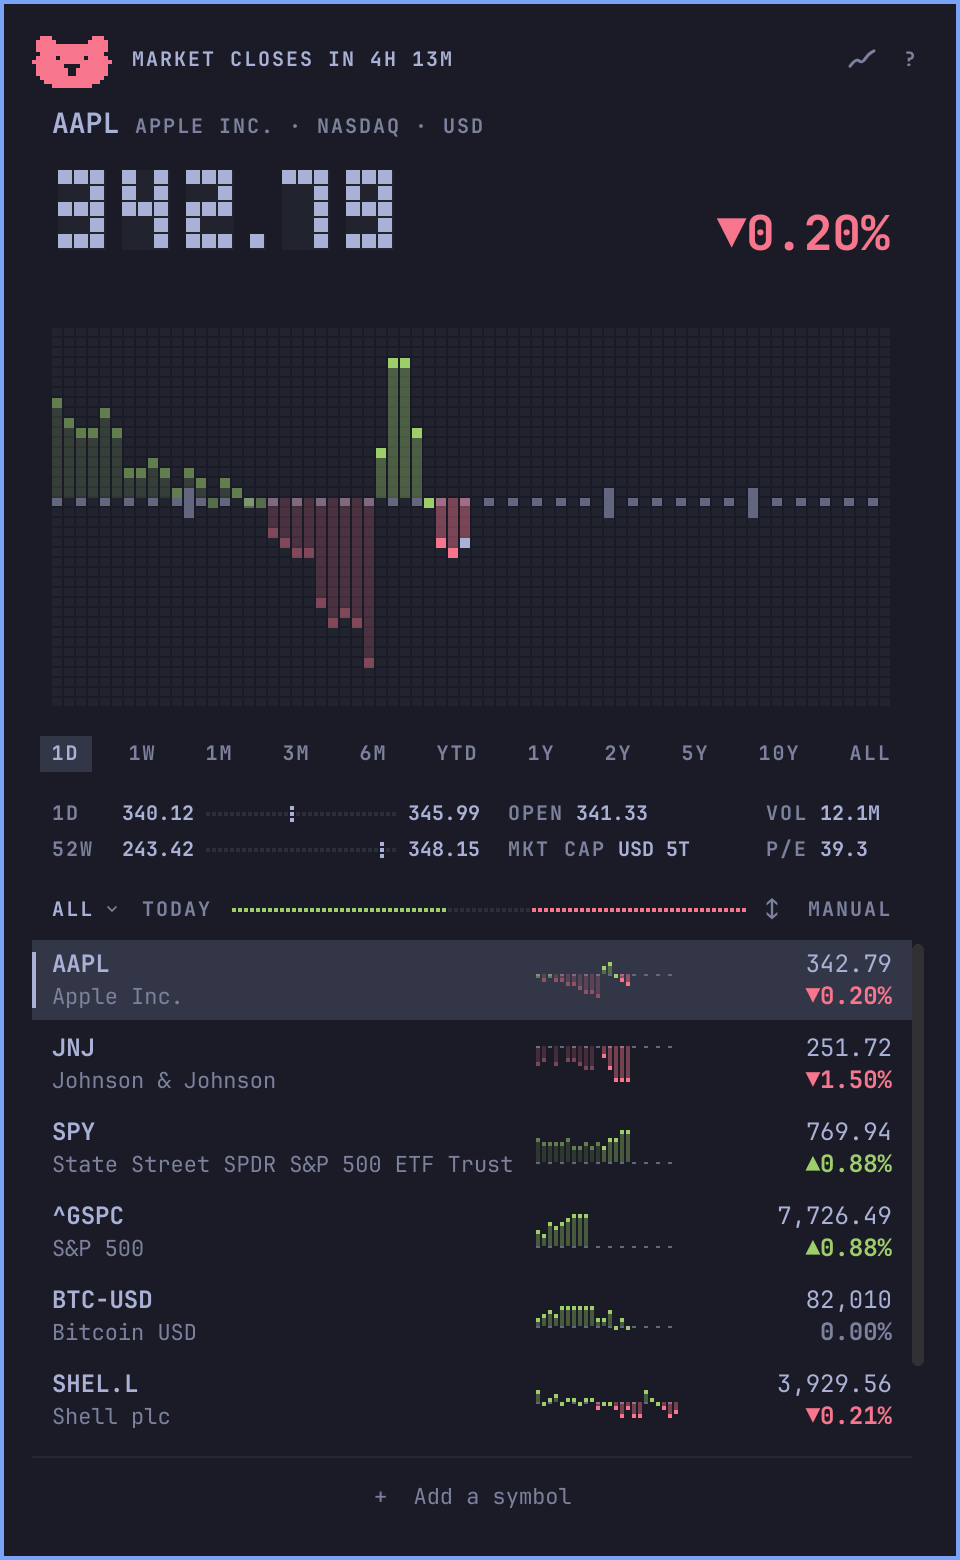
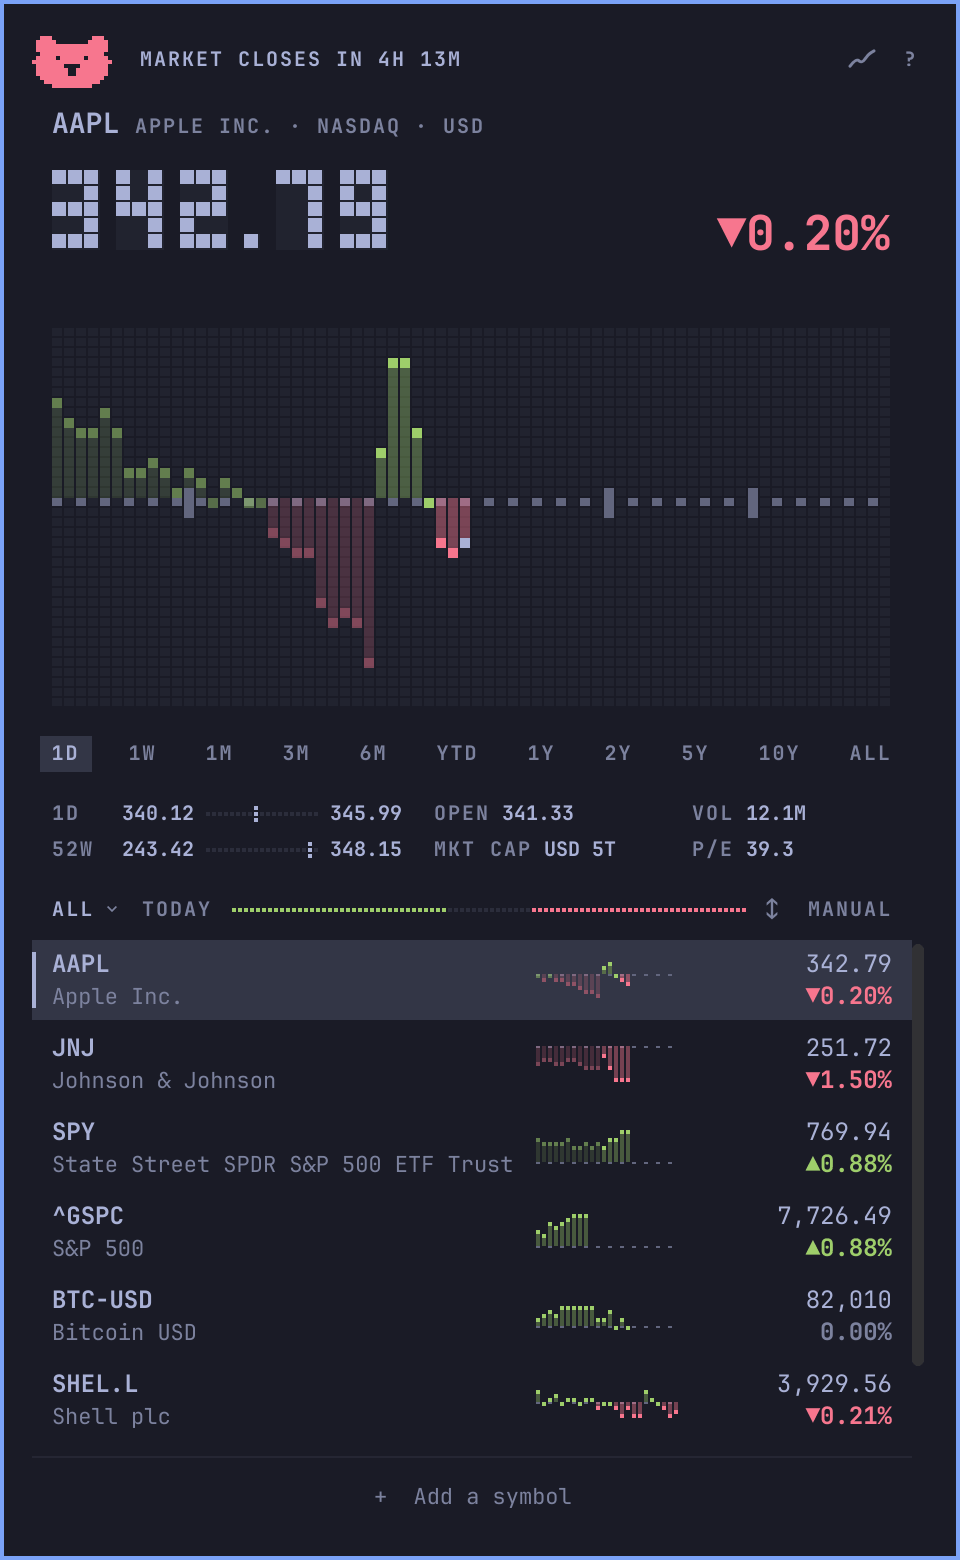
Stonks 1.0.2
The version moves to 1.0.2, and the README's pictures are rendered again:
the pill's icon form and smooth's header draw the day's pixel bull or bear,
the info lines run long in the window, and the layout's spacing changed.
The pill picture's words name the bear it now shows.

The top picture, which the plugin marketplace shows too, is now the bar
with Stonks' pill over the pixel bull, the wordmark and "Stocks in your
Omarchy bar.", beside the retro popup: drawn to read at the marketplace
card's size.

Claude-Session: https://claude.ai/code/session_0185KfMqnk4jbQ52PaCLfDTz

diff --git a/README.md b/README.md
@@ -4,7 +4,7 @@ Stonks puts a stock watchlist in your Omarchy 4 bar. A small pill shows how
 a stock is doing today. Click it for that stock's chart and your lists, and
 move the pointer across the chart to see the price at any moment on it.
 
-<img src="preview.png" alt="Stonks in the Omarchy bar: the pill shows Apple's symbol, sparkline, and change, and under it two popups side by side, each showing Apple's price, the day's chart, the range buttons, the day's and 52-week figures, and the first rows of the list. On the left, smooth, scrubbed back to 10:15 when the day was up, with the bull; on the right, retro, on the latest price of a down day, with the bear">
+<img src="preview.png" alt="Stonks in the Omarchy bar: its pill shows SPY's sparkline and change. Below the bar, the pixel bull, the STONKS wordmark, 'Stocks in your Omarchy bar.' and 'Free · No account · No API key', beside the retro popup: SPY at 769.94, up 0.88%, with the bull, over the day's chart in pixel columns">
 
 - Charts from one day to all time.
 - Pre-market, after-hours, and overnight prices, and when the market opens
@@ -37,7 +37,7 @@ AAPL, MSFT, SPY, and TSLA. Add your own and remove any you don't follow.
 
 ## The pill
 
-<img src="media/pill.png" width="200" alt="The pill's four forms: a sparkline, an arrow, the price as text, and Stonks' mark">
+<img src="media/pill.png" width="200" alt="The pill's four forms: a sparkline, an arrow, the price as text, and the day's bear">
 
 The pill shows today's move for the stock you last looked at, in one of four
 forms: a sparkline, an arrow, the price as text, or the day's animal, the
